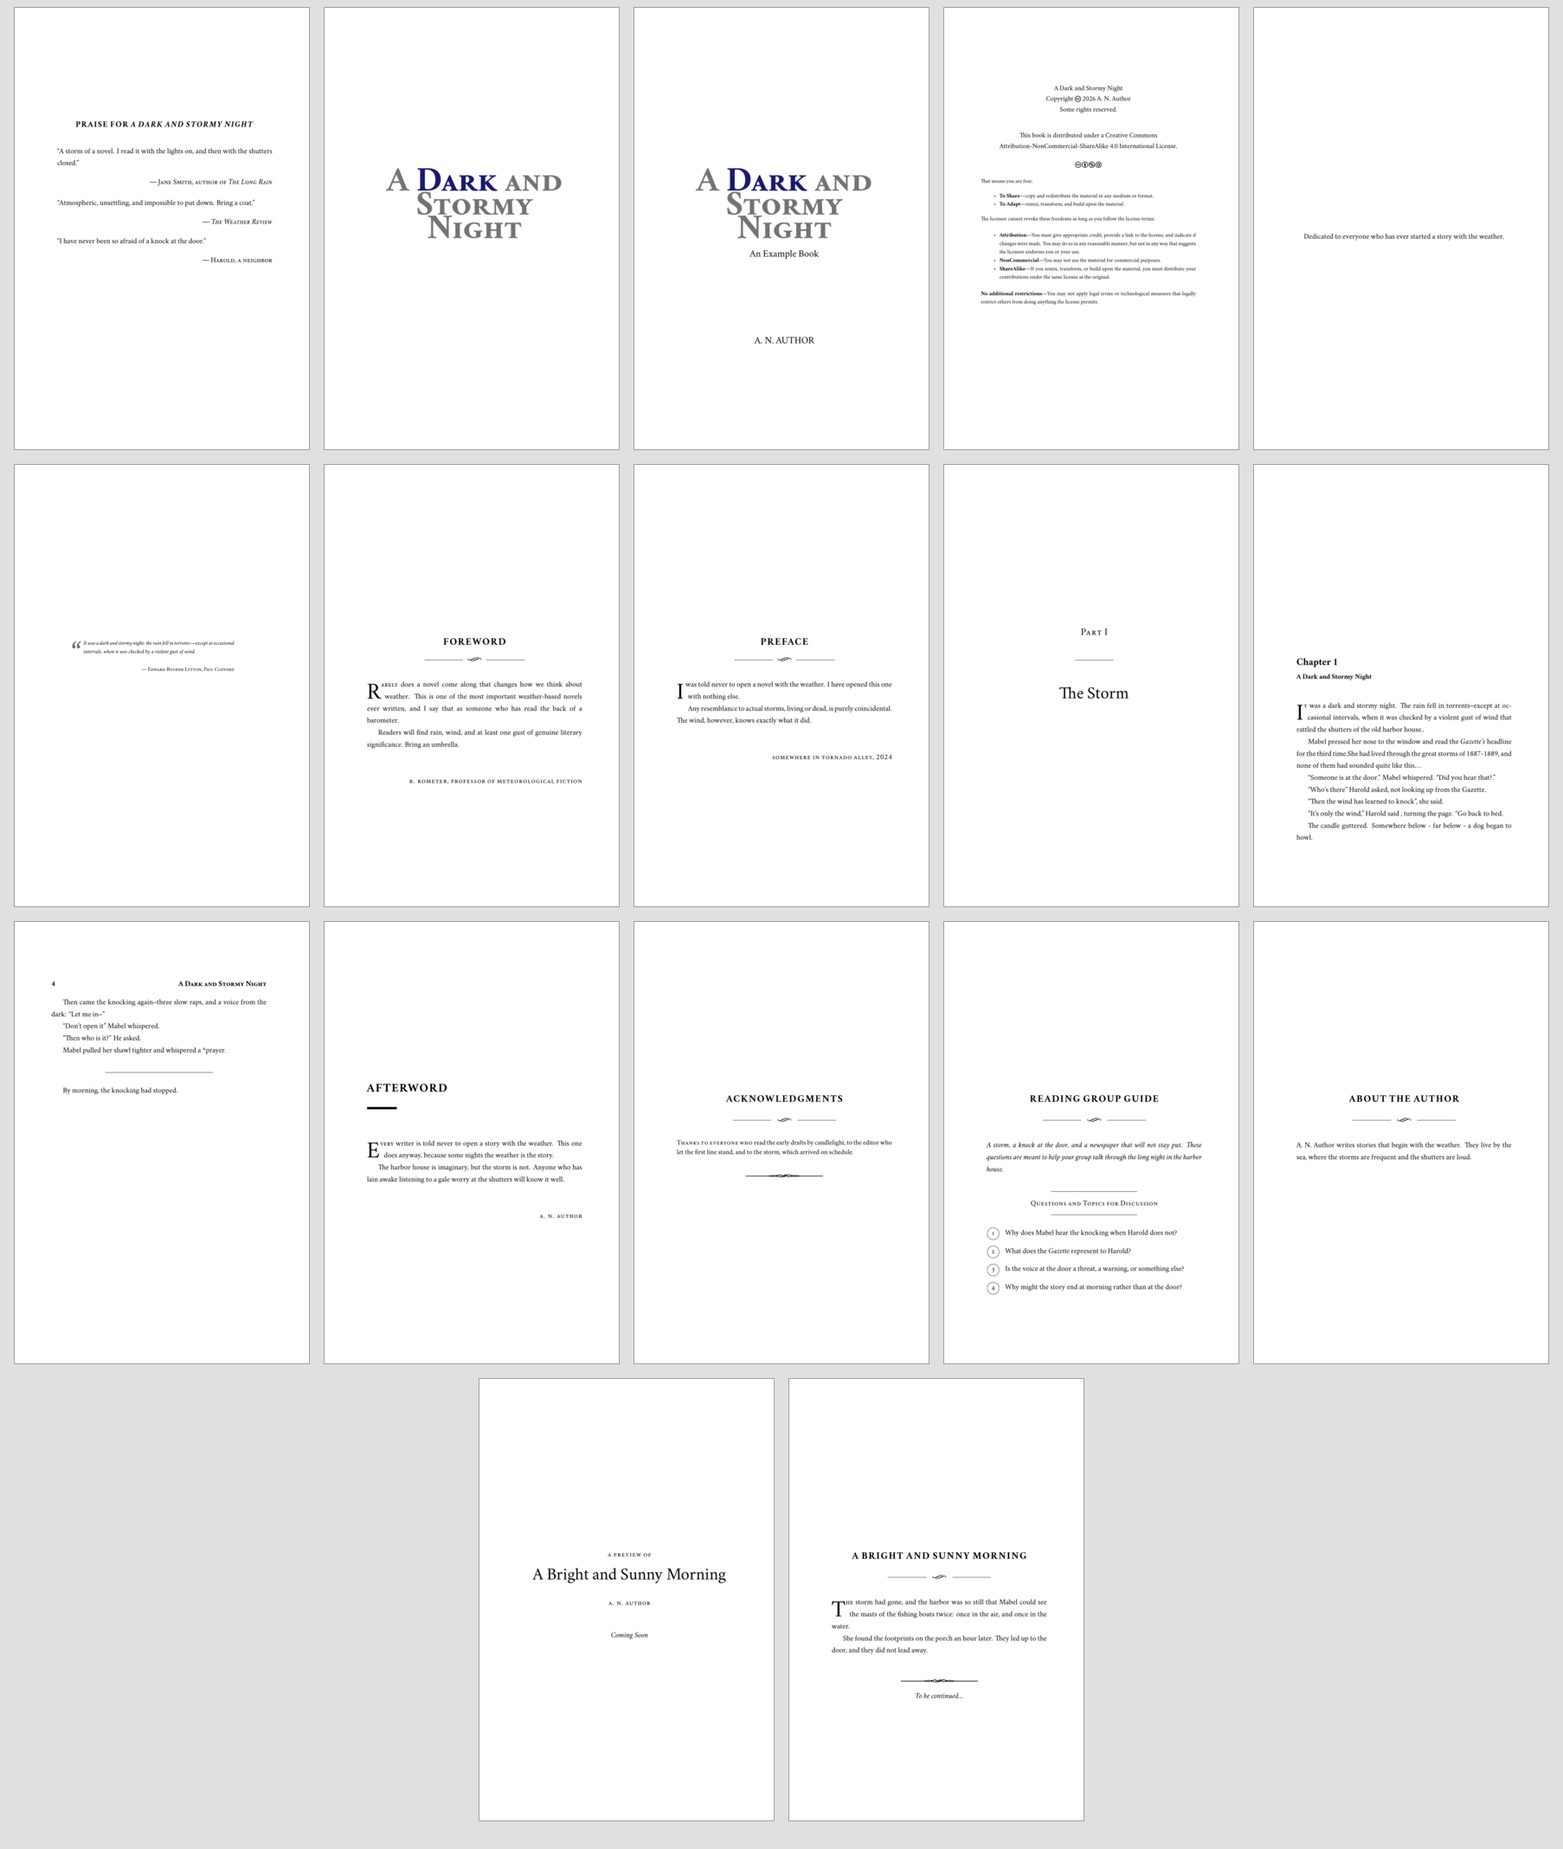
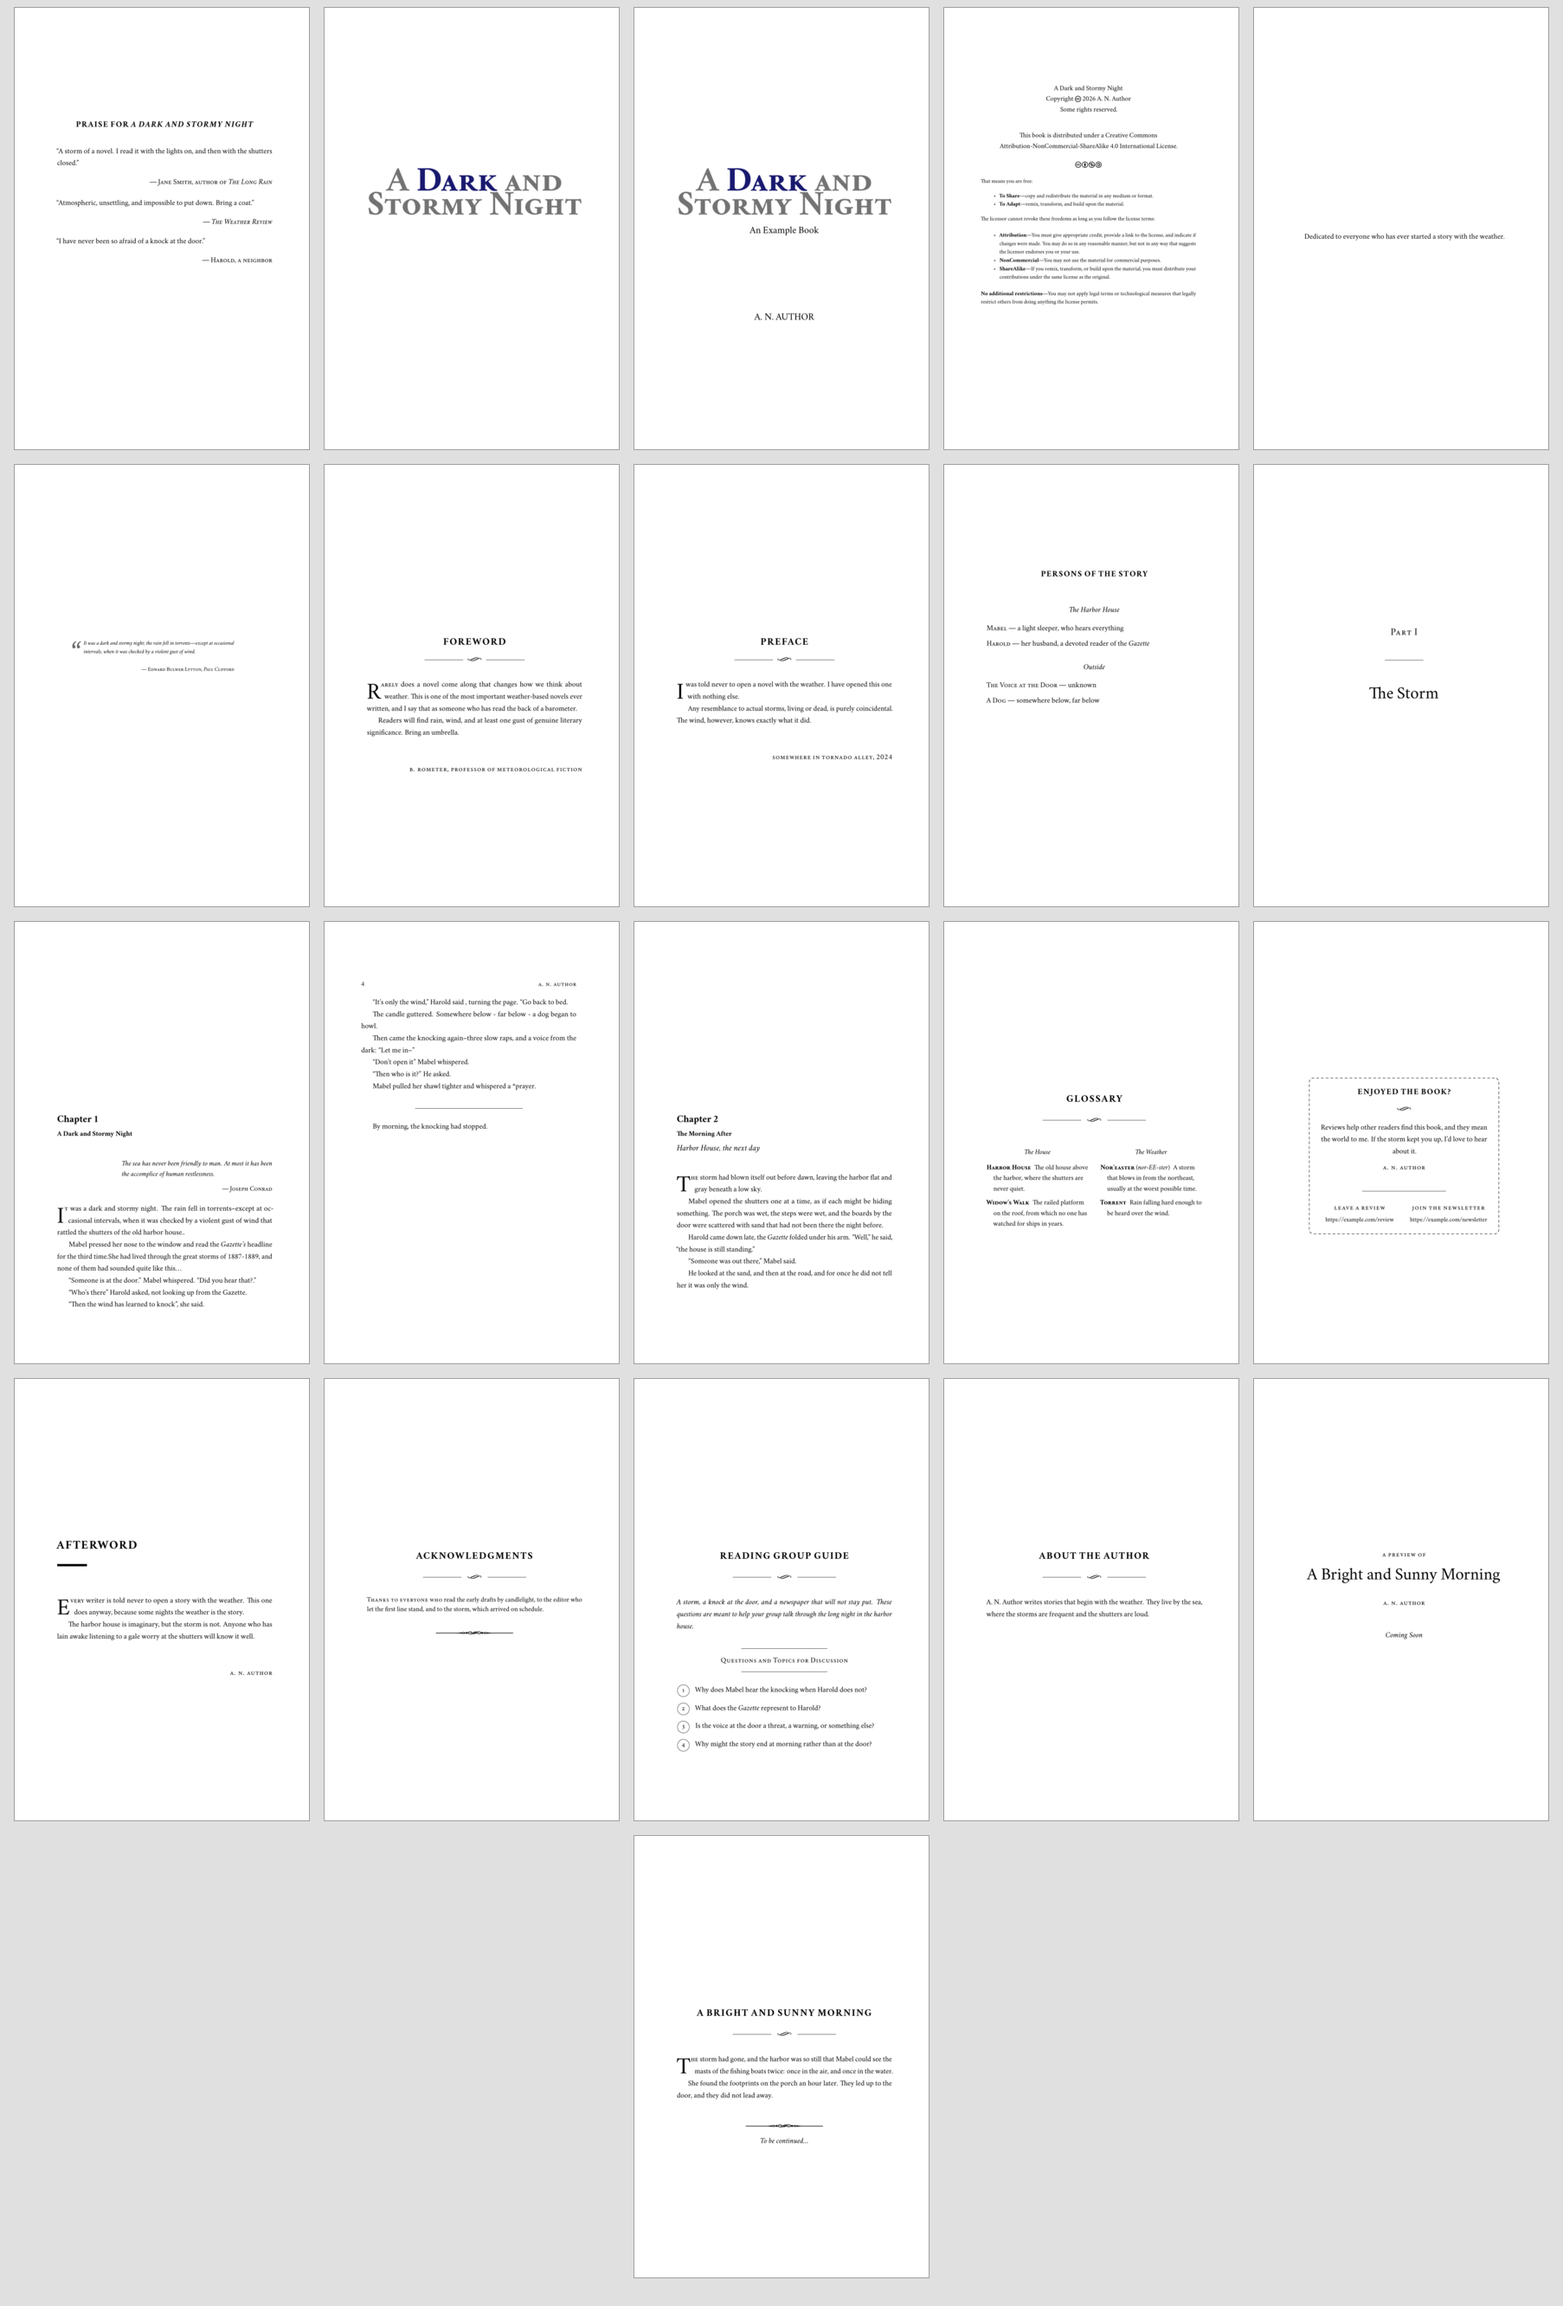
Make running chapter headings more customizable
Add 'series' option to use there. Change to use the author on verso pages like most fiction books are.

diff --git a/Pandoc/templates/custom-print.tex b/Pandoc/templates/custom-print.tex
@@ -227,6 +227,22 @@ $endfor$
 \newcommand{\fprunninghead}[1]{{\primaryfont\small\scshape\addfontfeature{LetterSpace=5,Numbers=OldStyle}\MakeTextLowercase{#1}}}
 \newcommand{\fpheadpagenumber}{{\primaryfont\small\thepage}}
 
+%% Running head content for left (verso) and right (recto) pages: author, title, chapter, or series
+\makeatletter
+\def\fp@headauthor{author}\def\fp@headtitle{title}\def\fp@headchapter{chapter}\def\fp@headseries{series}
+\newcommand{\fp@series}{$if(series)$$series$$else$\@author$endif$}
+% #1 is the macro to define, #2 is the setting, and #3 is the text used when the setting isn't recognized
+\newcommand{\fp@setheadtext}[3]{%
+  \def\fp@headsetting{#2}%
+  \ifx\fp@headsetting\fp@headauthor\def#1{\@author}\else
+  \ifx\fp@headsetting\fp@headtitle\def#1{\@title}\else
+  \ifx\fp@headsetting\fp@headchapter\def#1{\leftmark}\else
+  \ifx\fp@headsetting\fp@headseries\def#1{\fp@series}\else
+  \def#1{#3}\fi\fi\fi\fi}
+\fp@setheadtext\fp@versohead{$running-head-verso$}{\@author}
+\fp@setheadtext\fp@rectohead{$running-head-recto$}{\@title}
+\makeatother
+
 %% Page number placement (header, bottom-center, or bottom-outer)
 \def\pagenumberposition{$if(page-number-position)$$page-number-position$$else$header$endif$}
 \def\bottomcenter{bottom-center}
@@ -252,8 +268,8 @@ $endfor$
 \else
   \fancyhead[RO,LE]{\fpheadpagenumber}
 \fi\fi
-\fancyhead[LO]{\fprunninghead{\leftmark}}
-\fancyhead[RE]{\fprunninghead{\@title}}
+\fancyhead[LO]{\fprunninghead{\fp@rectohead}}
+\fancyhead[RE]{\fprunninghead{\fp@versohead}}
 }
 \makeatother
 
@@ -892,8 +908,8 @@ $if(running-head-chapter-number)$\runningheadchapternumbertrue$endif$
 \else
   \fancyhead[RO,LE]{\fpheadpagenumber} % add page numbers to the header
 \fi\fi
-\fancyhead[LO]{\fprunninghead{\leftmark}} % add subtitle to header
-\fancyhead[RE]{\fprunninghead{\@title}}
+\fancyhead[LO]{\fprunninghead{\fp@rectohead}}
+\fancyhead[RE]{\fprunninghead{\fp@versohead}}
 \renewcommand{\headrulewidth}{0.0pt} 
 \makeatother
 

diff --git a/README.md b/README.md
@@ -190,6 +190,7 @@ The following can be specified in a book project's "config.yml" file (which shou
 - **subtitle**: Optional subtitle
 - **subtitle-latex**: LaTeX-formatted subtitle (will override "subtitle" value on the title page of PDF output)
 - **author**: Author name
+- **series**: Name of the series the book belongs to, for the running header
 - **author-font**: The font for the author's name on the title page (can be a TTF/OTF filename in the "Pandoc/fonts" folder or font name)
 - **author-by-header**: The "By" label that appears above the author on the title page (default is blank)
 - **email**: Author e-mail
@@ -429,6 +430,8 @@ The colophon is the last page of the print output.
 
 - **page-number-position**: Where page numbers appear in the PDF (`header`, `bottom-center`, `bottom-outer`).
   Bottom page numbers are also shown on chapter opening pages.
+- **running-head-verso**: What the running header shows on left-hand pages (`author`, `title`, `chapter`, `series`). Default is `author`.
+- **running-head-recto**: What the running header shows on right-hand pages, with the same choices. Default is `title`.
 - **running-head-chapter-number**: `true` to show "Chapter 3 --" before the chapter's title in the running header. A chapter with no title always shows its number. Default is `false`.
   Default is `header`.
 
